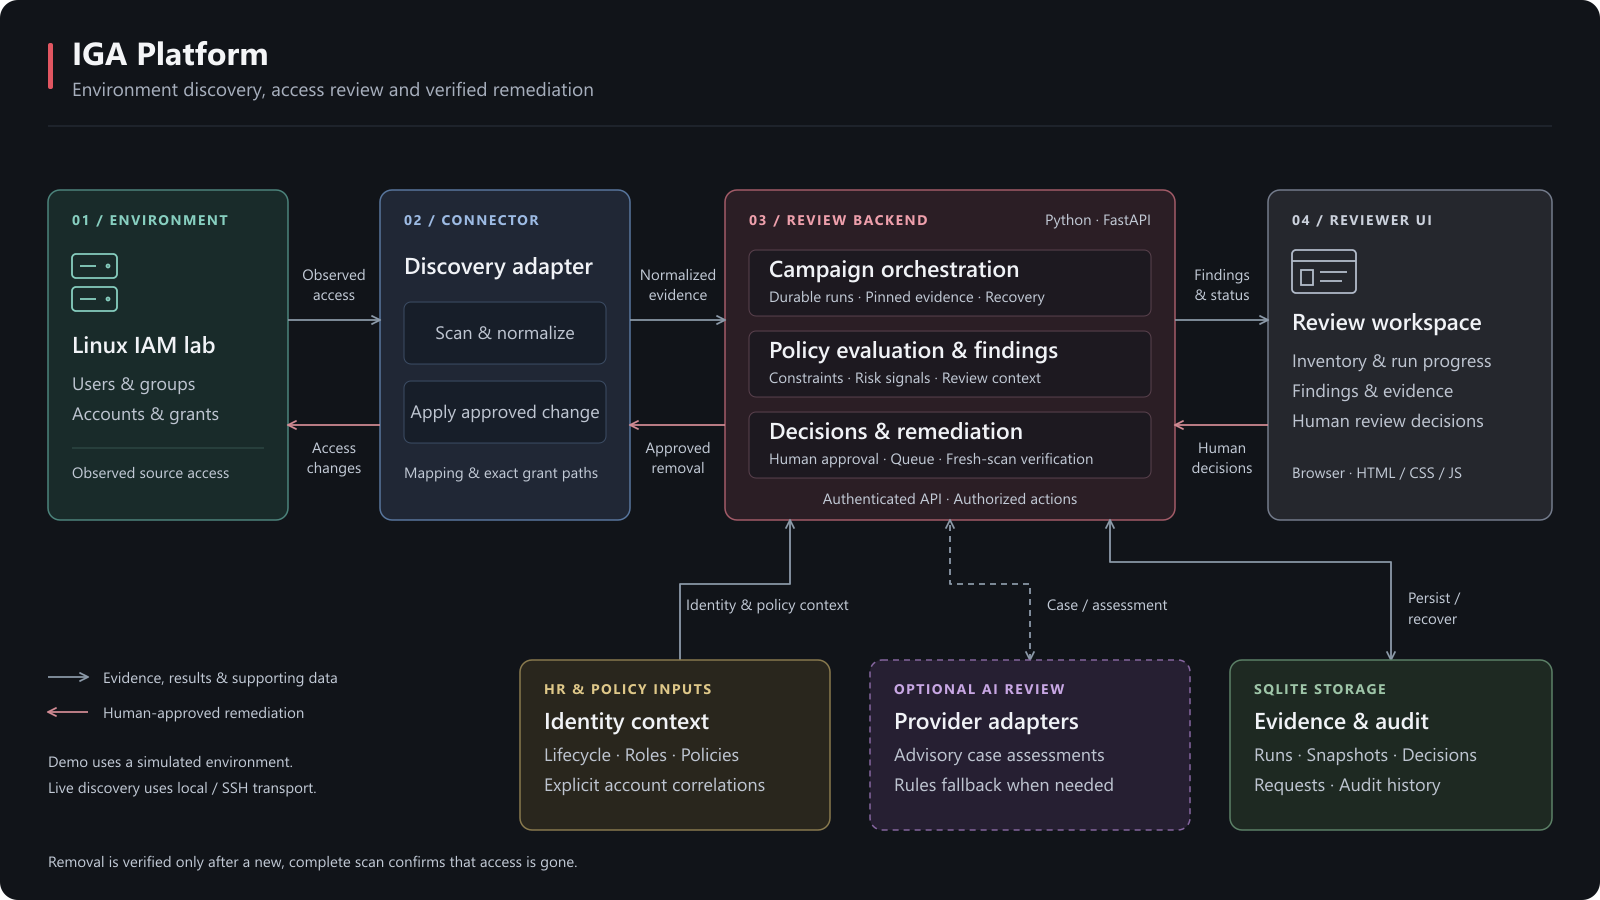
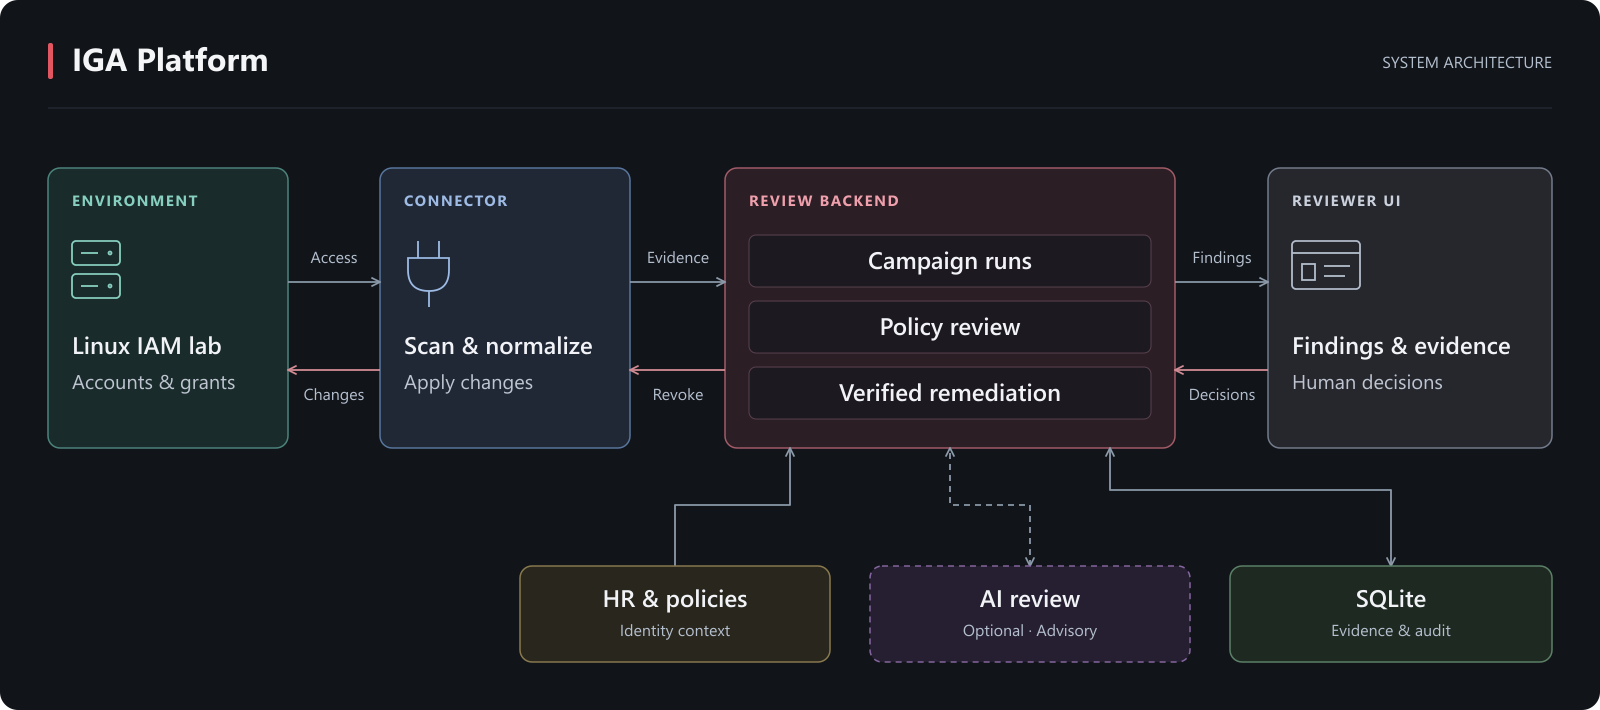
Update README

diff --git a/README.md b/README.md
@@ -1,138 +1,42 @@
 # IGA Platform
 
-An evidence-led access review platform.
+An access review prototype that connects HR policies with observed access.
+Inspect an environment, review findings, approve changes, and verify removals
+with a fresh scan. AI assessments support human decisions.
 
-It combines HR context, observed environment access and human decisions in one
-auditable platform.
+## Architecture
 
-[![IGA Platform architecture, left to right: environment, connector, review backend, and reviewer UI. HR and policy inputs, optional AI review, and SQLite storage support the backend from below.](docs/images/architecture.png)](docs/images/architecture.svg)
+[![Environment → Connector → Review backend → Reviewer UI, supported by HR policies, optional AI, and SQLite.](docs/images/architecture.png)](docs/images/architecture.svg)
 
-The current product is centered on environment-first access reviews. An admin
-can see configured sources before a campaign exists, start a durable run, follow
-its progress, review findings, record decisions and inspect the audit trail.
+Built with Python, FastAPI, SQLite, and vanilla JavaScript.
 
-## Start here
+## Access review
 
-| Goal | Guide |
-| --- | --- |
-| Run the complete local demo | [Setup and Run Guide](docs/SETUP-AND-RUN-GUIDE.md) |
-| Understand the review workflow | [Access review guide](governance-platform/access-review/README.md) |
-| Understand the API and recovery rules | [Module 4 contract](governance-platform/access-review/docs/contract.md) |
-| Read the product comparison and roadmap | [IGA comparison and roadmap](docs/IGA-PLATFORM-COMPARISON-AND-ROADMAP.md) |
-| Understand the HR and policy input contract | [Module 1 README](governance-platform/hr-policy/README.md) |
-| Understand discovery and remediation | [Connector README](environment-integration/connector/README.md) |
+Review evidence and record decisions in one workspace.
 
-## Modules
+![Access review workspace](docs/images/access-review-evidence.png)
 
-| Module | Responsibility | Current state |
-| --- | --- | --- |
-| 1. HR policy | Identities, lifecycle status, roles and policy expectations | Implemented with strict schemas, validation, CLI and tests |
-| 2. Linux IAM lab | Synthetic users, groups and policy scenarios | Planning and classification helpers implemented |
-| 3. Connector | Discovery, normalization, HTTP/SSH transport and approved changes | Fixture and localhost HTTP paths tested; live SSH needs revalidation |
-| 4. Access review | Campaigns, findings, decisions, remediation, verification and audit | Implemented with authenticated API, browser UI and durable runs |
+[View the environment dashboard](docs/images/environment-review-ready.png)
 
-Module 1 publishes the context used by Module 4. Module 3 owns native discovery,
-mappings and target changes. Module 4 stays source-independent and consumes the
-normalized scan contract.
+## Run the demo
 
-## Offline demo
-
-From PowerShell at the repository root:
+Follow the [setup guide](docs/SETUP-AND-RUN-GUIDE.md#environment-first-quick-start-windows)
+to install the dependencies, then run from the repository root in PowerShell:
 
 ```powershell
-Set-Location 'C:\Users\MONTASER YOUSUF\Documents\IGA-Platform'
-$env:IGA_AI_PROVIDER = 'rules'
-& '.\governance-platform\access-review\.venv-ai\Scripts\python.exe' -m iga_review.cli demo --empty --state-dir '.\governance-platform\access-review\.demo-review\presentation' --identities '.\governance-platform\hr-policy\data\identities.json' --policies '.\governance-platform\hr-policy\data\policies.json' --port 8042
+.\scripts\start-demo.ps1
 ```
 
-Open `http://127.0.0.1:8042`. The command prints the path to the generated
-reviewer token. Keep that token local and paste it into the sign-in form.
+Open [localhost:8043](http://127.0.0.1:8043), sign in with the generated token,
+and select **Start access review**. The demo uses simulated access and offline
+rules. State is saved between runs; use `-StateDir .demo-review/new-demo` for
+a fresh start.
 
-For a clean starting screen, use a new state directory. The `--empty` option
-does not delete an existing directory or reset previous simulated removals.
+## Documentation
 
-### Demo flow
+- [Setup, configuration, and tests](docs/SETUP-AND-RUN-GUIDE.md)
+- [Review workflow and validation status](governance-platform/access-review/README.md)
+- [API and data contracts](governance-platform/access-review/docs/contract.md)
 
-1. Sign in as the administrator and open **Environment**.
-2. Confirm the source is visible before any campaign exists.
-3. Enter a campaign name and choose **Start access review**.
-4. Follow **Queued**, **Scanning**, **Validating**, **Reviewing** and **Review ready**.
-5. Open the findings, inspect evidence and record a human decision.
-6. Open **Audit trail** to review the recorded action.
-7. Reload, sign in again and confirm that the run and campaign remain available.
-
-Rules mode is an offline fallback. It does not represent a successful external
-model review.
-
-## What the demo looks like
-
-The admin starts with a connected source and no campaign. The environment card
-shows the last known inventory after the first scan, then the run rail records
-each stage until findings are ready.
-
-![Empty environment view](docs/images/environment-empty.png)
-
-![Review-ready environment with recorded stages](docs/images/environment-review-ready.png)
-
-The findings workspace keeps the decision beside the evidence. Reviewers can
-see direct and inherited grant paths, scan metadata, evidence limits and the
-available human action in one place.
-
-![Access review evidence panel](docs/images/access-review-evidence.png)
-
-## Design rules
-
-- HR data says who the person is, their role and whether they should be active.
-- The environment scan says which accounts, entitlements and grant paths exist.
-- Ownership is never inferred from a matching name or username.
-- Every run pins its input files and accepted scan evidence.
-- Human decisions are authenticated, versioned and idempotent.
-- AI output is advisory and cannot override hard policy constraints.
-- A removal is verified only by a later complete scan that proves all target
-  grant paths are gone.
-- Audit events and accepted inventory snapshots are append-only.
-
-## Verification status
-
-Verified on 2026-09-28:
-
-| Check | Result |
-| --- | ---: |
-| Module 1 contract and generator suite | 67 passed |
-| Module 4 access-review suite | 170 passed |
-| Offline connector and integration suite | 16 passed, 1 live-lab test skipped |
-| JavaScript runtime suite | 14 passed |
-| Total automated tests | **267 passed** |
-| JavaScript syntax | Passed |
-
-The Module 4 suite covers durable runs, lease recovery, shutdown, retries,
-idempotency, freshness, correlation checks, atomic completion, authorization,
-consent, remediation and verification behavior. Provider calls are mocked or
-rules-only.
-
-Run the checks from the repository root:
-
-```powershell
-& '.\governance-platform\access-review\.venv-ai\Scripts\python.exe' -m unittest discover -s governance-platform/hr-policy/tests
-& '.\governance-platform\access-review\.venv-ai\Scripts\python.exe' -m unittest discover -s governance-platform/access-review/tests
-& '.\governance-platform\access-review\.venv-ai\Scripts\python.exe' -m unittest discover -s environment-integration/connector/tests -p test_offline_audit.py
-node --test governance-platform/access-review/tests/ui_runtime.test.cjs
-node --check governance-platform/access-review/static/app.js
-```
-
-The captured fixture contains 367 assignments: 319 expected, 34 lifecycle-
-restricted, 9 restricted and 5 unlisted. This is a deterministic fixture check,
-not an AI accuracy result.
-
-## Scope limits
-
-The following still need separate validation:
-
-- Native Linux seeding, live SSH discovery and native access changes
-- Live external model availability, quota behavior and review quality
-- A fresh real-browser pass after the latest remediation-polling tweak
-- Cross-browser accessibility testing
-- Production SSO, backups, metrics, rate limiting and worker supervision
-
-Existing campaign history and local live-state files are preserved. The tested
-setup uses editable installs; packaged-wheel UI assets need separate acceptance.
+Local automated tests cover review runs, authorization, recovery, remediation,
+and UI behavior. Live Linux changes and external AI quality still need validation.
